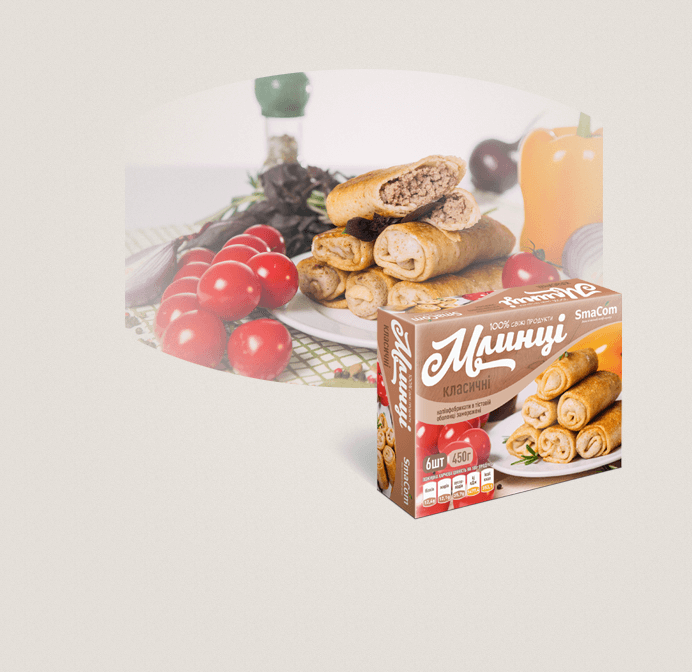
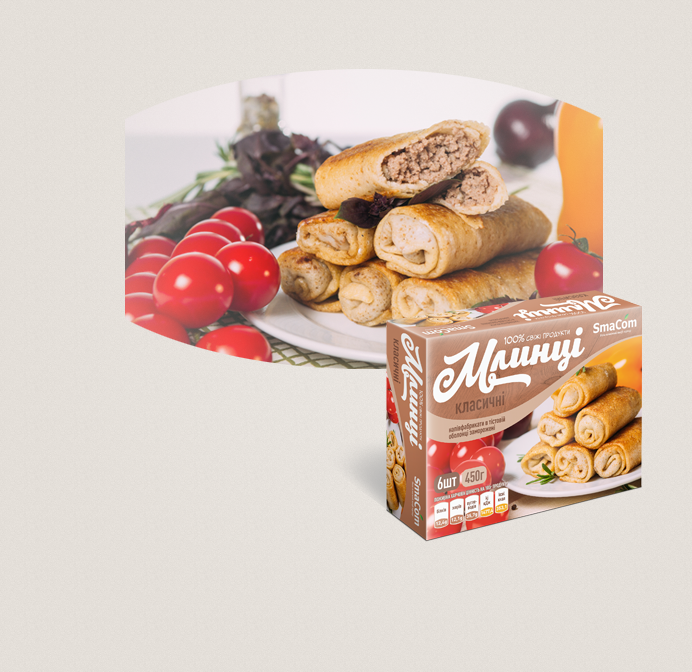
Replace pop image for pancakes. Change bg image.

Changed region(s): [[0.1821, 0.0938, 0.9408, 0.8125]]

diff --git a/_backup/www/templates/ru/cat38.html b/_backup/www/templates/ru/cat38.html
@@ -27,7 +27,7 @@
             <center><a href="" class="more" onClick="showHidden(this,'hidden13'); return false;">подробнее</a></center>
         </div>
         <div class="bannerInside">
-            <img class="" src="img/banners_inner/banner3.jpg" alt="">
+            <img class="" src="img/banners_inner/banner3_mod.png" alt="">
         </div>
     </div>
     <div class="borderUp2"></div>

diff --git a/_backup/www/templates/ua/cat38.html b/_backup/www/templates/ua/cat38.html
@@ -27,7 +27,7 @@
 				<center><a href="" class="more" onClick="showHidden(this,'hidden13'); return false;">докладніше</a></center>
 		</div>
 		<div class="bannerInside" >
-			<img class="" src="img/banners_inner/banner3.jpg" alt="" >
+			<img class="" src="img/banners_inner/banner3_mod.png" alt="" >
 		</div>	
 	</div>
 	<div class="borderUp2"></div>	
